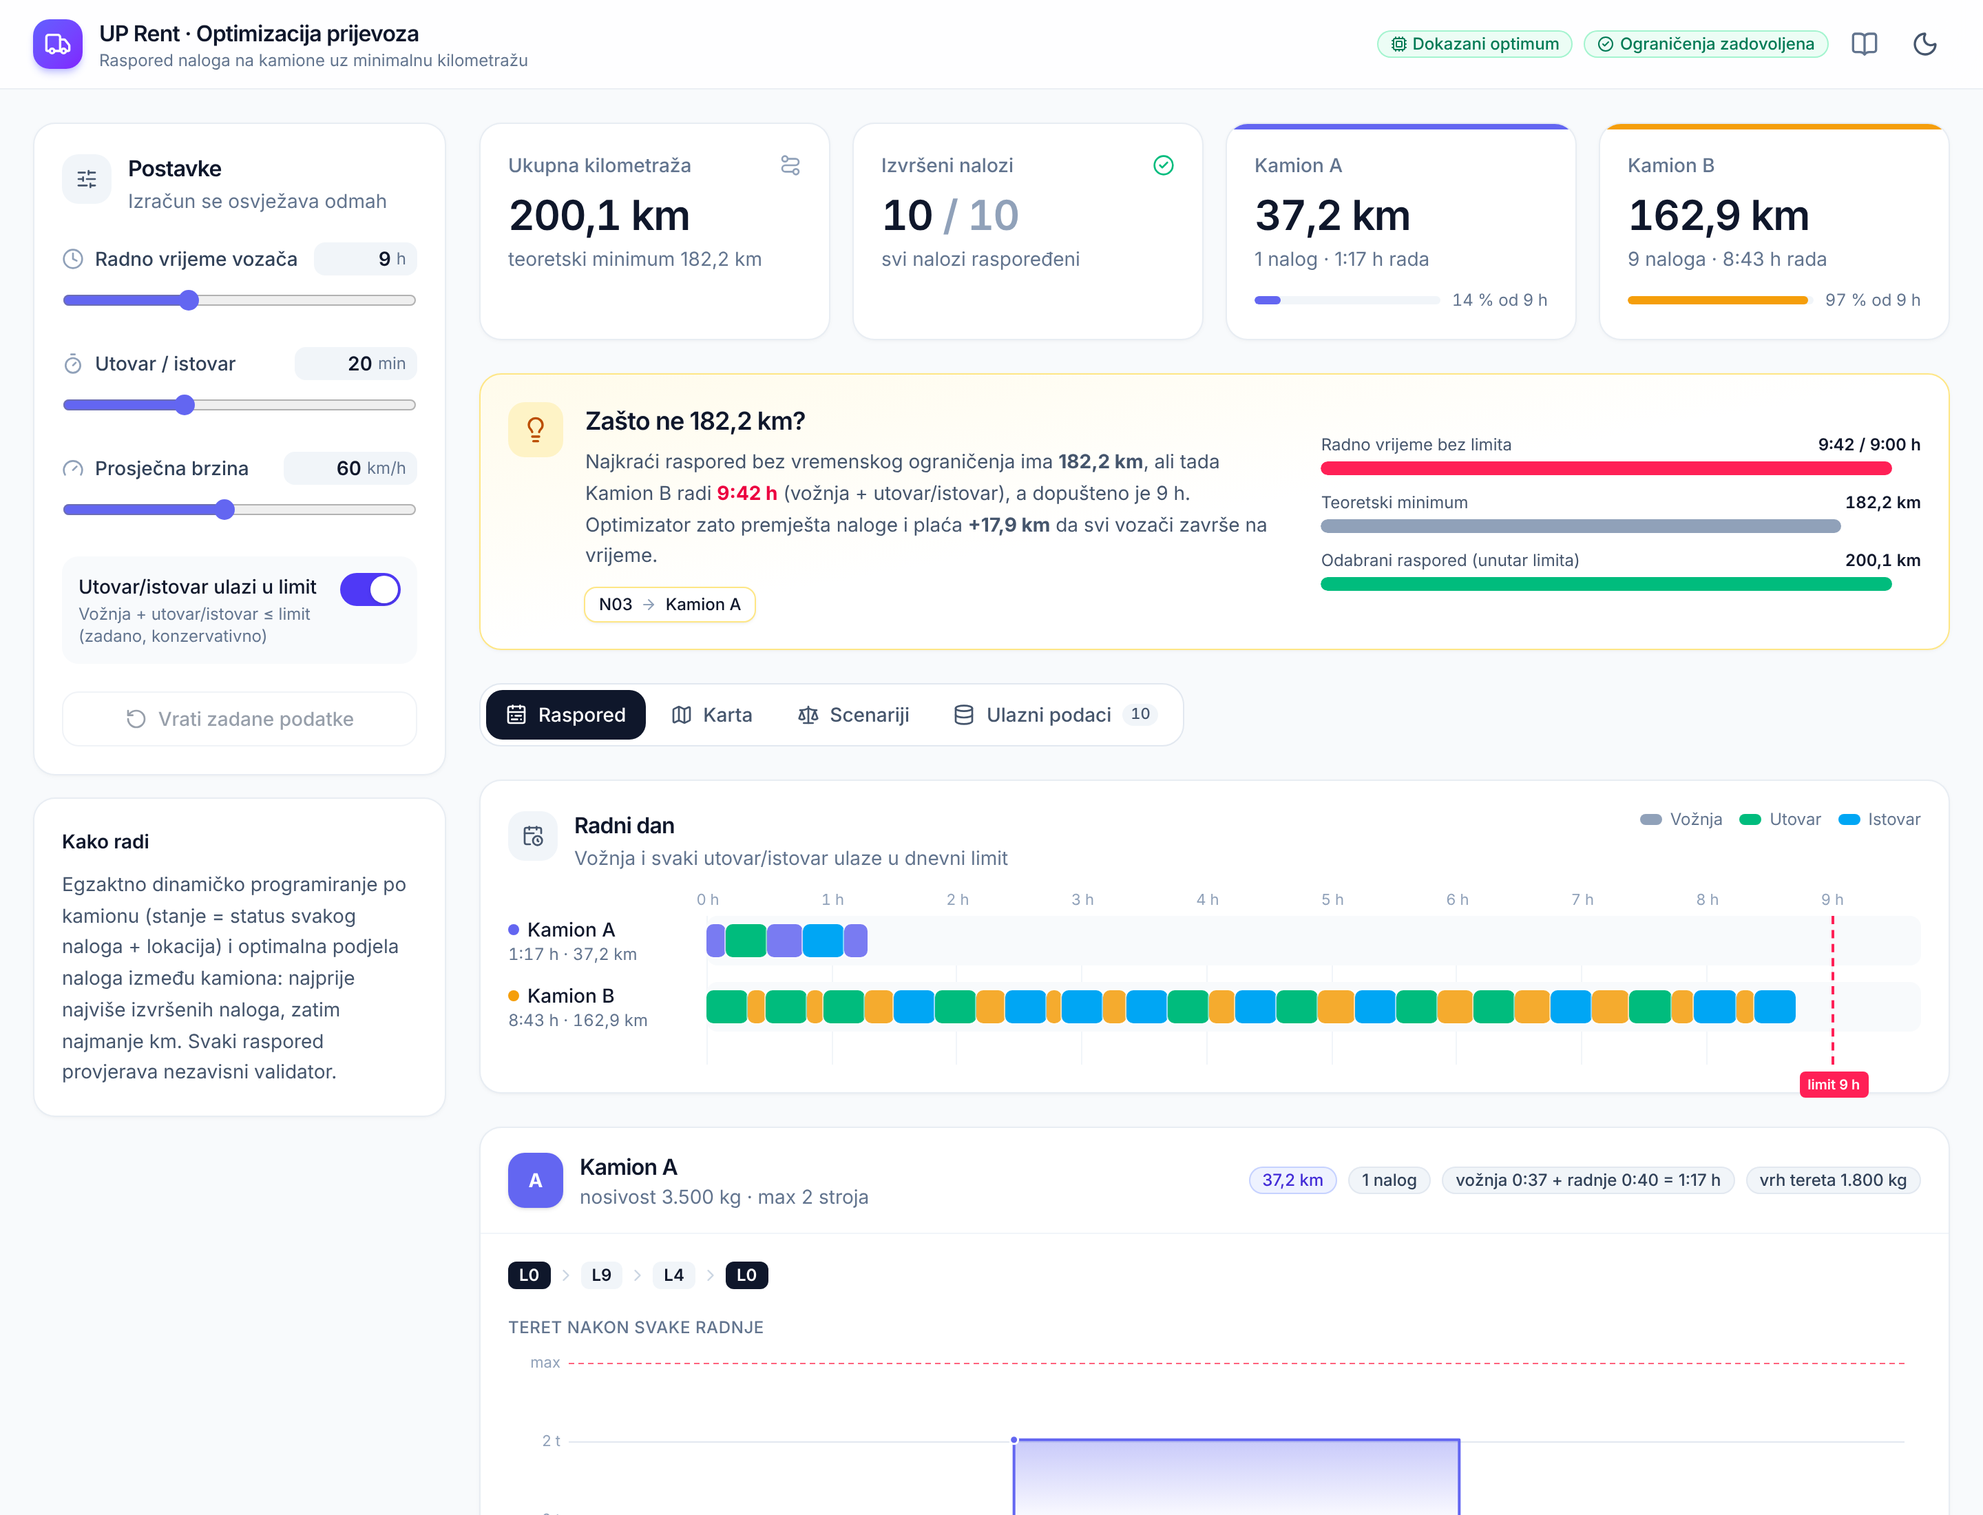
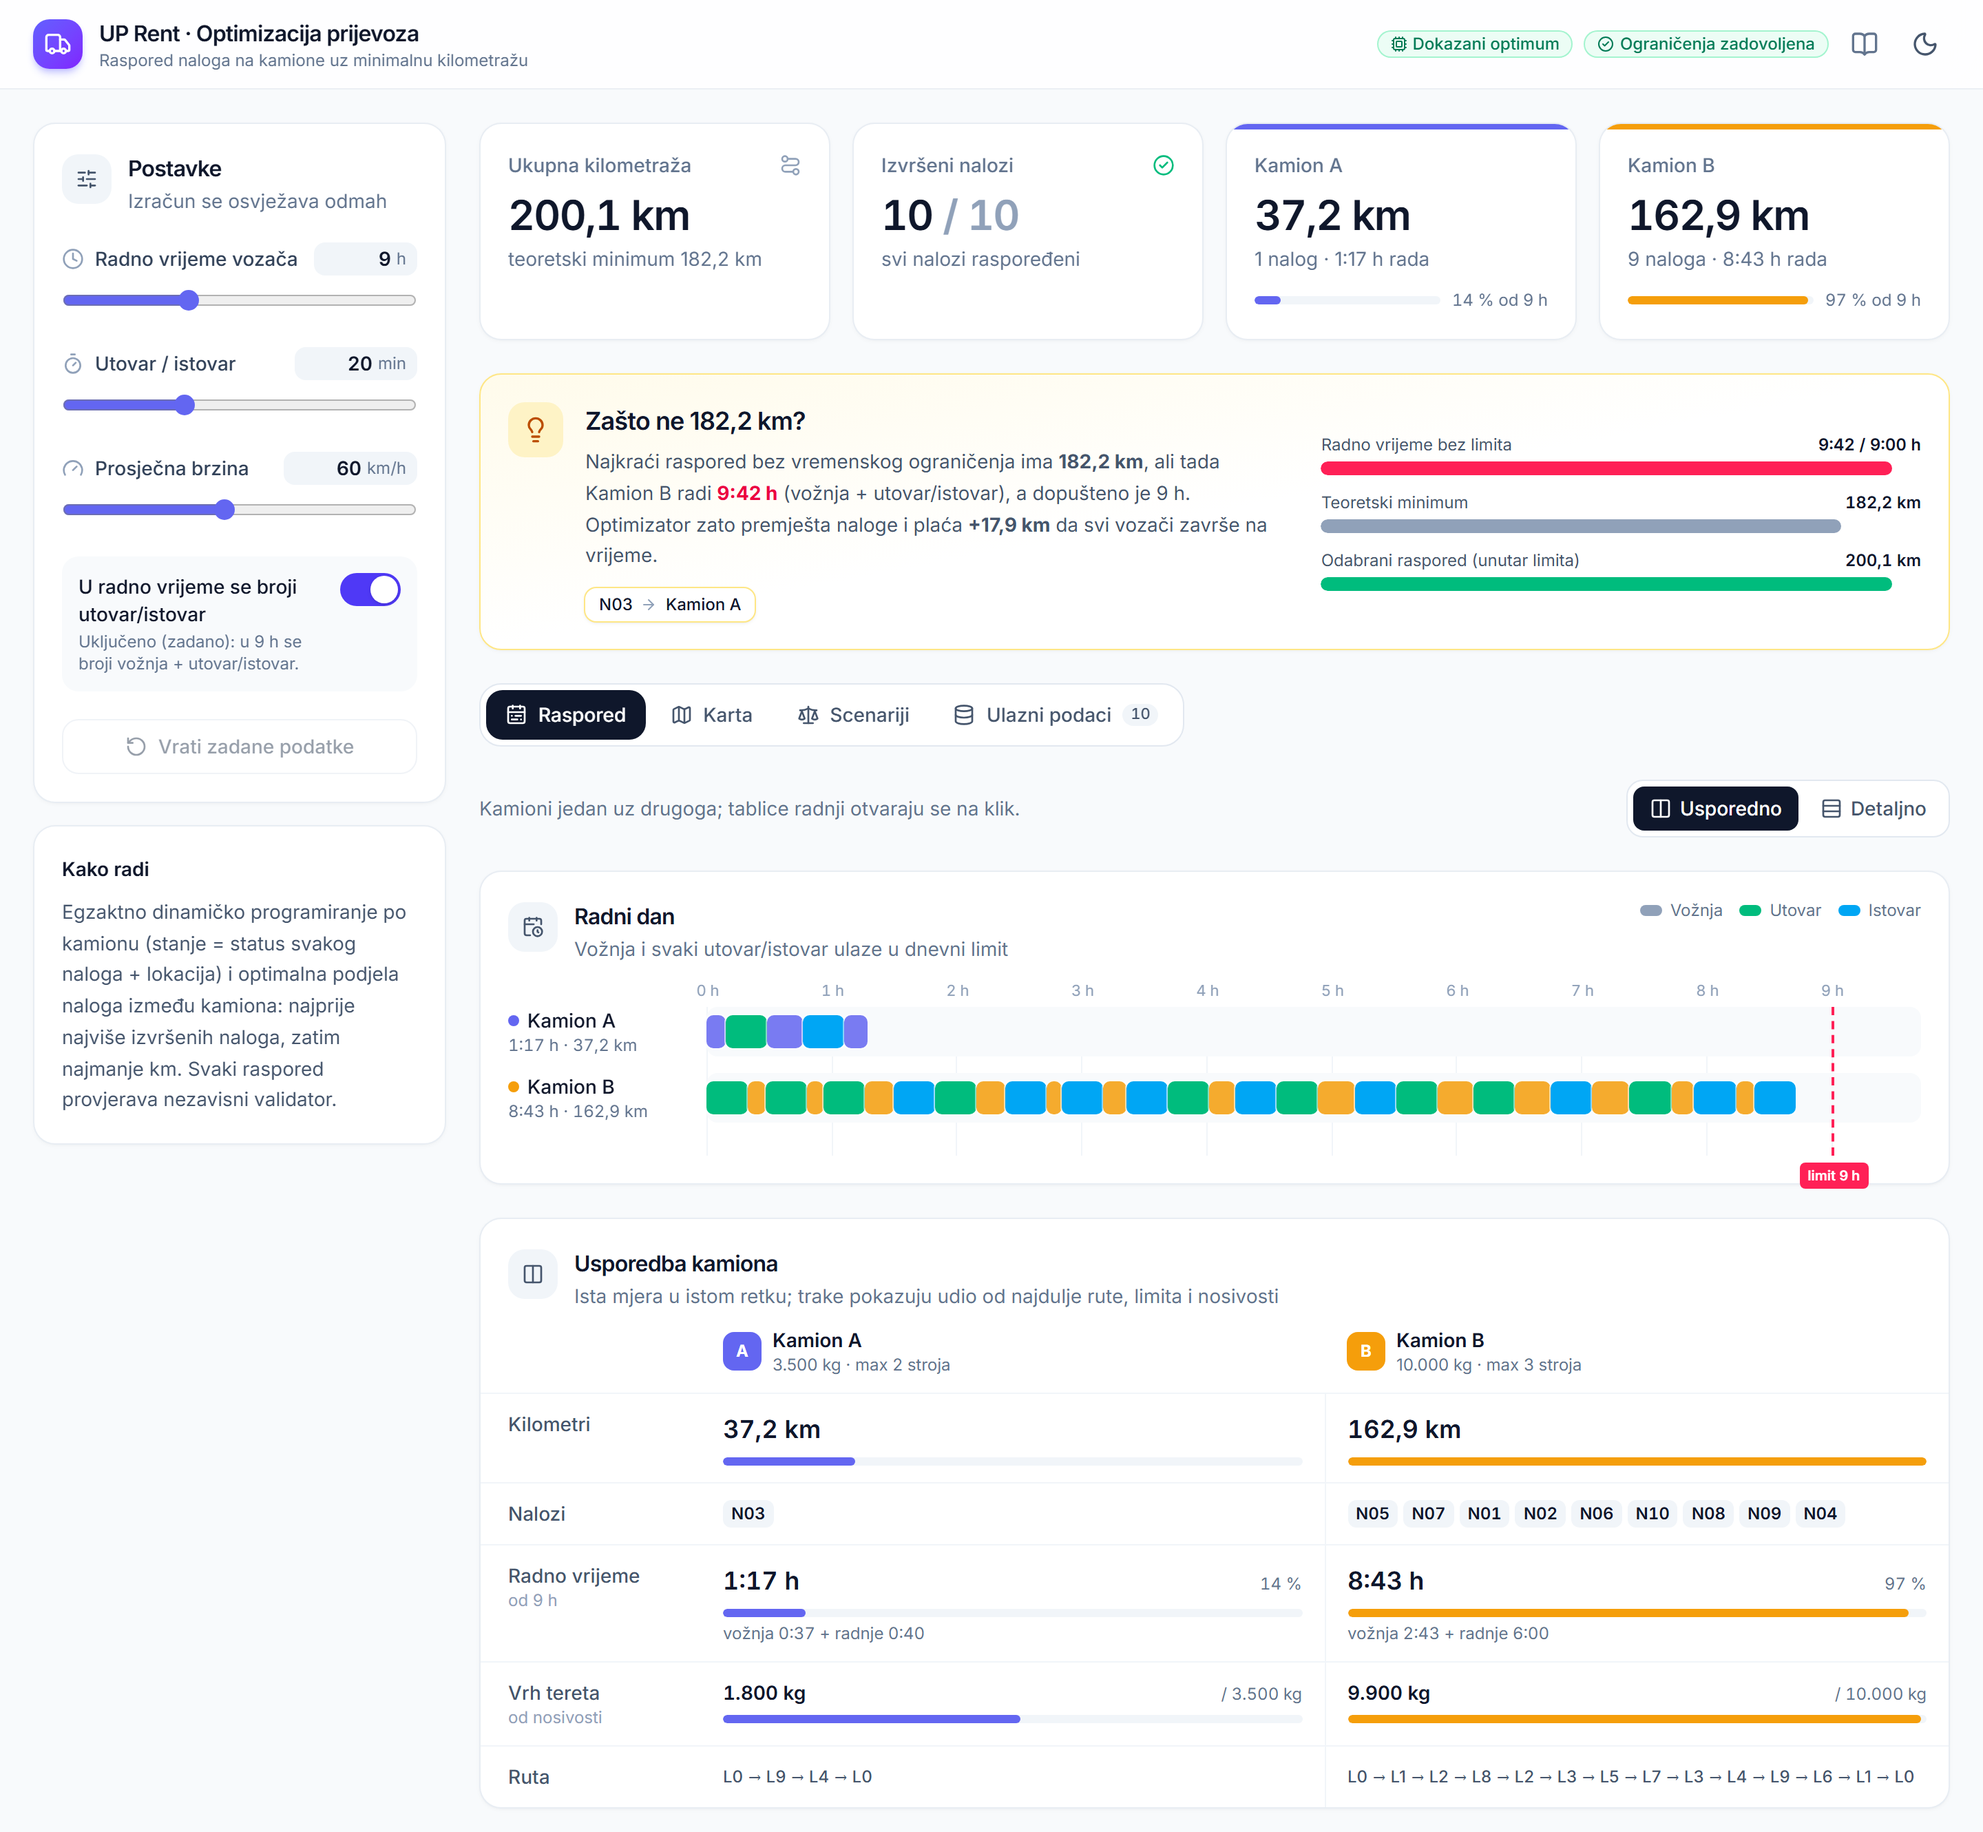
README: nova snimka rasporeda i opis usporednog prikaza kamiona

diff --git a/README.md b/README.md
@@ -85,8 +85,10 @@ predlažem ovaj redoslijed (oko 3 minute):
 
 1. **Vrh stranice:** ukupno 200,1 km, 10/10 naloga, oznake „Dokazani optimum” i „Ograničenja
    zadovoljena”, te okvir **„Zašto ne 182,2 km?”** (zamka s 9 h).
-2. **Raspored:** vremenska crta radnog dana s crtom limita od 9 h; za svaki kamion redoslijed
-   lokacija, graf tereta i tablica radnji (teret i broj strojeva nakon svake radnje, vrijeme).
+2. **Raspored:** vremenska crta radnog dana s crtom limita od 9 h i **usporedba kamiona** jedan uz
+   drugoga (km, nalozi, radno vrijeme prema limitu, vrh tereta prema nosivosti, ruta), ispod
+   koje su grafovi tereta i tablice radnji na klik. Prekidač „Detaljno” prikazuje svaki kamion
+   u punoj širini (teret i broj strojeva nakon svake radnje, vrijeme).
 3. **Karta:** gumb „Pokreni vožnju” animira oba kamiona po stvarnoj vremenskoj crti, uz trenutnu
    radnju i teret.
 4. **Scenariji:** usporedba tumačenja limita (200,1 / 182,2 / 182,2 km).
@@ -106,7 +108,7 @@ Streamlit verzija (`streamlit run app.py`) ima iste funkcije; njezine snimke su 
 |---|---|
 | Prikaz i pregled ulaznih podataka | Kartica **Ulazni podaci**: vozni park, strojevi, lokacije, nalozi. Tablice se mogu uređivati, a raspored se odmah ponovno izračunava. |
 | Automatska dodjela naloga kamionima | Optimizator bira najbolju podjelu (sve kombinacije) |
-| Redoslijed obilaska | Kartica **Raspored**: redoslijed lokacija + tablica radnji |
+| Redoslijed obilaska | Kartica **Raspored**: usporedba kamiona (ruta), graf tereta + tablica radnji |
 | Nosivost i broj strojeva u svakom trenutku | Ugrađeno u algoritam; nedopuštena stanja se ni ne generiraju |
 | Preuzimanje prije isporuke, isti kamion | Ugrađeno u model stanja (čeka → na kamionu → isporučen) |
 | Minimalna kilometraža | Egzaktna optimizacija |
